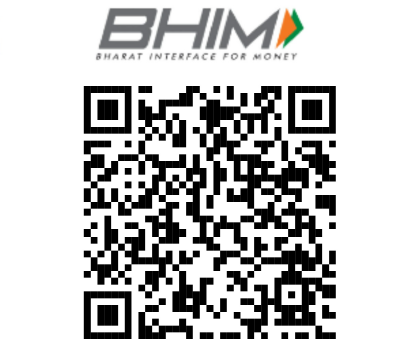
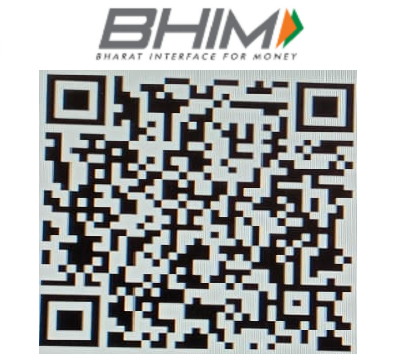
updated pay now

diff --git a/pay_now.html b/pay_now.html
@@ -287,7 +287,7 @@
 						  
 							<tr>
 							  <th scope="col">Payee Name:</th>
-							  <td>GROWINGTREE RESEARCH</td>
+							  <td>R.S.M.R ADVISORY</td>
 							</tr>
 							<tr>
 							  <th scope="col">Bank Name:</th>
@@ -295,19 +295,19 @@
 							</tr>
 							<tr>
 							  <th scope="col">Bank A/C Number:</th>
-							  <td>108805002560</td>
+							  <td>108805002731</td>
 							</tr>
 							<tr>
 							  <th scope="col">Bank IFSC Code:</th>
-							  <td>icic0001088</td>
+							  <td>ICIC0001088</td>
 							</tr>
 							<tr>
 							  <th scope="col">Payee UPI ID:</th>
-							  <td>growtree@icici</td>
+							  <td>rsmradvisory@icici</td>
 							</tr>
 							<tr>
 							  <th scope="col">Bank Branch:</th>
-							  <td>Mahatma Nagar</td>
+							  <td>Mahatma Nagar, Nashik</td>
 							</tr>
 							
 						</table>
@@ -319,7 +319,7 @@
             </div>
         </section>
 		
-		<section id="pricing" class="section-4 plans">
+		<!-- <section id="pricing" class="section-4 plans">
             <div class="container">
                 <div class="row text-center intro">
                     <div class="col-12">
@@ -329,7 +329,7 @@
                 </div>
 			
             </div>
-        </section>
+        </section> -->
         
 
         <!-- Footer -->
